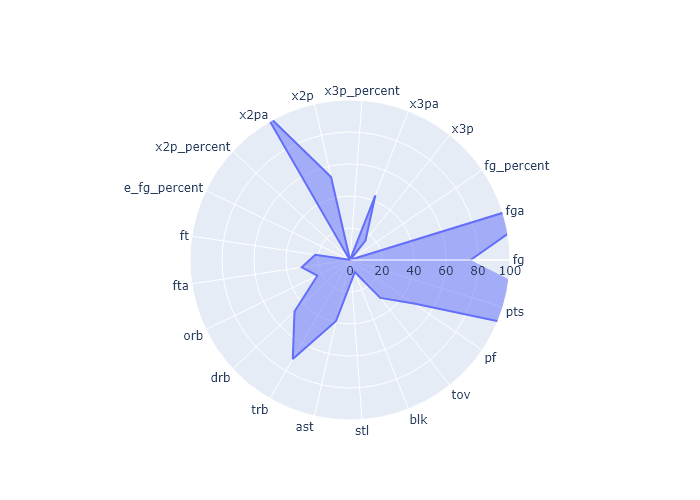
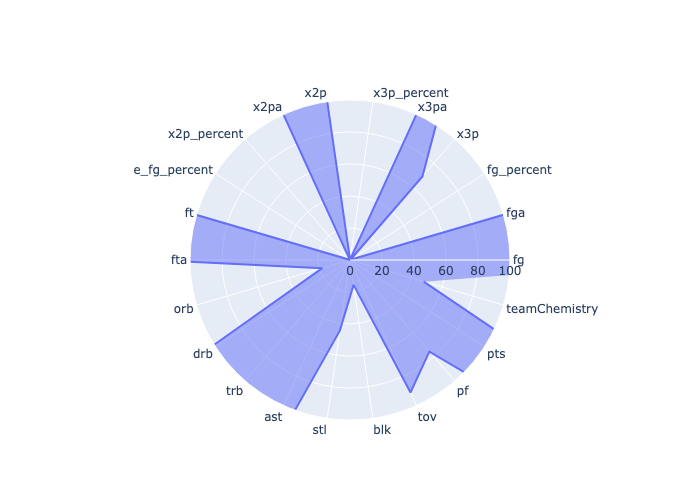
team comparison

diff --git a/NBABackend/templates/teamComparisonResult.html b/NBABackend/templates/teamComparisonResult.html
@@ -1,0 +1,14 @@
+<div>
+    <div>
+        <h2>Would your team win?</h2>
+        <br/>
+        <h3>{{ text }}</h3>
+    </div>
+    <div>
+        <h3>Statistics</h3>
+        <img src="/static/Images/plot1.png" class="d-block w-100" alt="..." />
+        <figcaption>Opposition</figcaption>
+        <img src="/static/Images/plot2.png" class="d-block w-100" alt="..." />
+        <figcaption>Your Team</figcaption>
+    </div>
+</div>

diff --git a/NBABackend/templates/result.html b/NBABackend/templates/result.html
@@ -6,6 +6,6 @@
     </div>
     <div>
         <h3>Your Team's Statistics</h3>
-        <img src="/static/Images/plot.png" class="d-block w-100" alt="..." />
+        <img src="/static/Images/plot0.png" class="d-block w-100" alt="..." />
     </div>
 </div>

diff --git a/NBABackend/models/auth.py b/NBABackend/models/auth.py
@@ -138,13 +138,13 @@ def login():
         prediction = model.predict([currentTeam])
         # print(prediction)
         
-        generatePlot(currentTeam, filtcols)
+        generatePlot(currentTeam, filtcols, 0)
        
         return render_template('result.html', text = prediction)
 
     return render_template("/project.html", text = "Trial")
 
-def generatePlot(team, cols):
+def generatePlot(team, cols, index):
     fig = go.Figure()
 
     fig.add_trace(go.Scatterpolar(
@@ -161,7 +161,7 @@ def generatePlot(team, cols):
     showlegend=False
     )
 
-    pio.write_image(fig, 'NBABackend/static/Images/plot.png')
+    pio.write_image(fig, 'NBABackend/static/Images/plot' + str(index) +'.png')
 
 def calculate_win_percentage(wins_losses):
     num_wins = wins_losses.count('W')
@@ -366,9 +366,6 @@ def modelPredict():
     global df2
     df2 = df2.drop(columns = ["playoffs"])
     rowTry = df2.iloc[0]
-    # rowTry["fg_percent"]  = 50
-    # rowTry["fg"] = 2
-    # rowTry["ast"] = 100
     rowTry = [rowTry]
     with open('my_model.pkl', 'rb') as file:
         model = pickle.load(file)
@@ -380,8 +377,25 @@ def modelPredict():
 def teamCompare():
     if request.method == "POST":
         teamSelected = request.form.get("team")
-        print(teamSelected)
         global currentTeamComparison
-        print(currentTeamComparison)
-        return render_template('csv.html', text = currentTeamComparison)
+
+        scale = [6] * 20
+        scale += [6, 4]
+
+        df = pd.read_csv('NBABackend/csv/team_compare.csv')
+        team1 = scale * df[df['tm'] == teamSelected].values[:, 1:]
+        team1perf = np.sum(team1[0])
+        team2perf = scale * currentTeamComparison
+        team2perf = np.sum(team2perf)
+        winnerTeam = ""
+        if team1perf > team2perf: 
+            winnerTeam = teamSelected
+        else:
+            winnerTeam = "Your Selected Team"
+
+        filtcols = df.columns[1:]
+    
+        generatePlot(team1[0], filtcols, 1)
+        generatePlot(currentTeamComparison, filtcols, 2)
+        return render_template('teamComparisonResult.html', text = winnerTeam)
     return render_template('teamComparison.html')
